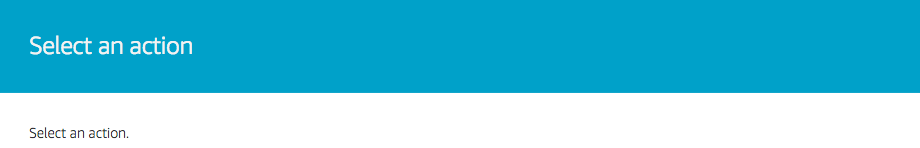
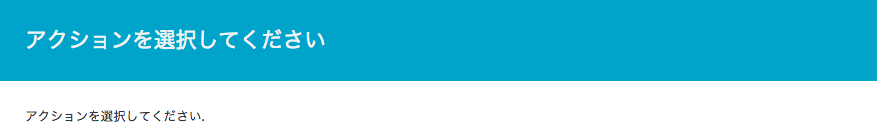
Update

Changed region(s): [[0.0308, 0.2188, 0.3694, 0.4062], [0.0, 0.625, 1.0, 0.6562], [0.0308, 0.8438, 0.2463, 0.9688]]

diff --git a/docs/06.rst b/docs/06.rst
@@ -110,7 +110,7 @@ SQL バージョンの使用     2016-03-23
 
 |
 
-Select an action画面で、[Send messages to the **Amazon Elasticsearch Service**]を選択し、[Configure action]をクリックします。
+[アクションを追加して下さい] 画面で、[Amazon Elasticsearch Service にメッセージを送信する] を選択し、[アクションの設定] をクリックします。
 
 .. image:: images/6-create-rule-4.png
 
